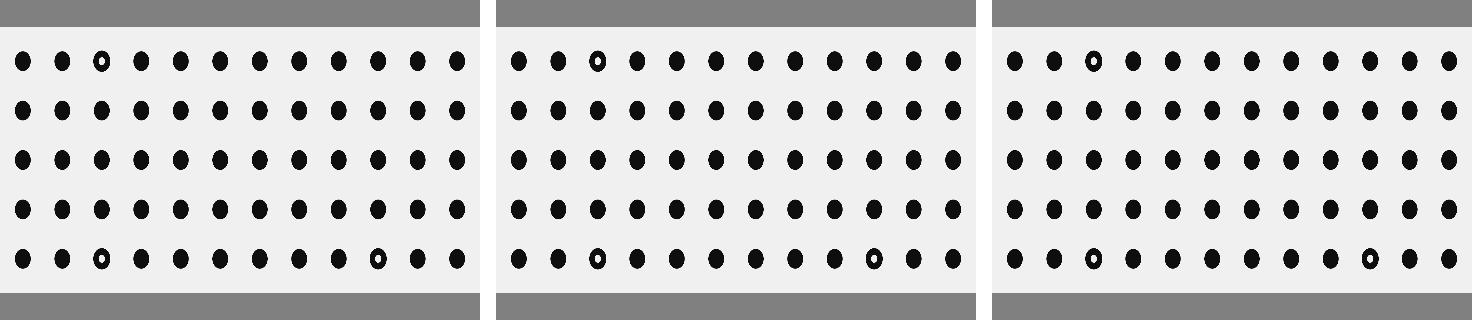
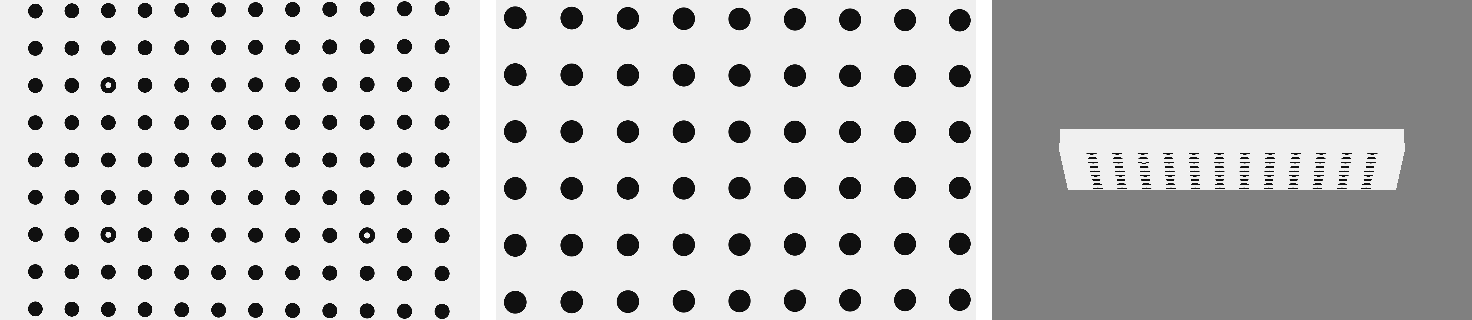
Fixing render uvs examples

diff --git a/src/pyvale/render/cameratools.py b/src/pyvale/render/cameratools.py
@@ -143,25 +143,50 @@ def cam_pos_fill_frame(
         Camera world coordinates [x, y, z] to frame the points.
     """
     pts = np.asarray(points, dtype=np.float64)
-    if pts.size == 0:
+    if pts.ndim != 2 or pts.shape[1] != 3:
+        raise ValueError("points must have shape (N, 3).")
+    if pts.shape[0] == 0:
         raise ValueError("Cannot frame an empty set of points.")
 
-    if isinstance(rot_world, Rotation):
-        rot_euler = tuple(float(value) for value in rot_world.as_euler("xyz"))
-    elif isinstance(rot_world, np.ndarray):
-        rot_euler = tuple(float(value) for value in rot_world)
-    else:
-        rot_euler = tuple(float(value) for value in rot_world)
+    if fill <= 0.0:
+        raise ValueError("fill must be positive.")
 
-    pos = riley.pos_fill_frame_from_rot(
-        pts,
-        tuple(int(value) for value in pixels_num),
-        tuple(float(value) for value in pixels_size),
-        float(focal_length),
-        rot_euler,
-        float(fill),
+    pixel_counts = np.asarray(pixels_num, dtype=np.float64)
+    pixel_sizes = np.asarray(pixels_size, dtype=np.float64)
+    if (
+        pixel_counts.shape != (2,)
+        or pixel_sizes.shape != (2,)
+        or np.any(pixel_counts <= 0.0)
+        or np.any(pixel_sizes <= 0.0)
+        or focal_length <= 0.0
+    ):
+        raise ValueError("Camera dimensions and focal length must be positive.")
+
+    if isinstance(rot_world, Rotation):
+        rotation = rot_world
+    else:
+        rotation = Rotation.from_euler(
+            "xyz",
+            np.asarray(rot_world, dtype=np.float64),
+        )
+
+    target = 0.5 * (np.min(pts, axis=0) + np.max(pts, axis=0))
+    camera_points = rotation.inv().apply(pts - target)
+    sensor_half_size = 0.5 * pixel_counts * pixel_sizes * fill
+
+    distance_x = (
+        camera_points[:, 2]
+        + focal_length * np.abs(camera_points[:, 0]) / sensor_half_size[0]
     )
-    return np.asarray(pos, dtype=np.float64)
+    distance_y = (
+        camera_points[:, 2]
+        + focal_length * np.abs(camera_points[:, 1]) / sensor_half_size[1]
+    )
+    distance = float(max(np.max(distance_x), np.max(distance_y)))
+    clearance = np.finfo(np.float64).eps * max(1.0, abs(distance))
+    distance = max(distance, float(np.max(camera_points[:, 2]))) + clearance
+
+    return target + rotation.apply(np.array((0.0, 0.0, distance)))
 
 
 def cam_frame_points(

diff --git a/tests/render/test_cameratools.py b/tests/render/test_cameratools.py
@@ -112,6 +112,58 @@ def test_cam_frame_mesh_and_scene() -> None:
     np.testing.assert_allclose(framed_scene.pos_world, framed_mesh.pos_world)
 
 
+def test_cam_frame_mesh_respects_fill_for_oblique_camera() -> None:
+    """Framing keeps every projected node within the requested image fill."""
+    coords = np.array(
+        (
+            (-2.0, -1.0, -0.2),
+            (2.0, -1.0, -0.2),
+            (2.0, 1.0, 0.2),
+            (-2.0, 1.0, 0.2),
+        )
+    )
+    mesh = render.Mesh3D(
+        element_type=render.EElementType.QUAD4,
+        coords=coords,
+        connectivity=np.array(((0, 1, 2, 3),), dtype=np.uintp),
+        shader=None,
+    )
+    camera = _make_test_camera(pixels_num=(640, 480))
+    camera.rot_world = Rotation.from_euler(
+        "xyz",
+        (12.0, -20.0, 4.0),
+        degrees=True,
+    )
+
+    framed = render.cam_frame_mesh(camera, mesh, fill=0.8)
+    pixels = render.cam_project_points(framed, coords)
+    image_center = 0.5 * framed.pixels_num
+    image_half_size = 0.5 * framed.pixels_num
+    occupancy = np.abs(pixels - image_center) / image_half_size
+
+    assert np.max(occupancy) <= 0.8 + 1.0e-12
+    assert np.isclose(np.max(occupancy), 0.8)
+
+
+def test_cam_frame_mesh_fill_fraction_controls_camera_distance() -> None:
+    """A smaller fill fraction moves the camera away from the target."""
+    coords = np.array(
+        ((-1.0, -1.0, 0.0), (1.0, -1.0, 0.0), (0.0, 1.0, 0.0))
+    )
+    mesh = render.Mesh3D(
+        element_type=render.EElementType.TRI3,
+        coords=coords,
+        connectivity=np.array(((0, 1, 2),), dtype=np.uintp),
+        shader=None,
+    )
+    camera = _make_test_camera()
+
+    framed_full = render.cam_frame_mesh(camera, mesh, fill=1.0)
+    framed_border = render.cam_frame_mesh(camera, mesh, fill=0.9)
+
+    assert framed_border.pos_world[2] > framed_full.pos_world[2]
+
+
 def test_stereo_build_symmetric_and_faceon() -> None:
     """Verify stereo baseline and symmetric / face-on angles."""
     cam = _make_test_camera(pos=(0.0, 0.0, 10.0))

diff --git a/tests/examples/test_renderuvs_examples.py b/tests/examples/test_renderuvs_examples.py
@@ -11,7 +11,9 @@ from __future__ import annotations
 from collections.abc import Callable
 from pathlib import Path
 
+import numpy as np
 import pytest
+from PIL import Image
 
 
 _RENDER_UV_EXAMPLES = (
@@ -50,5 +52,26 @@ def test_renderuv_example(
     example: str,
     output: str,
 ) -> None:
-    """Each Render UV example runs and writes its representative result."""
-    run_example(example, (output,), timeout=300.0)
+    """Each representative render is visible, centred, and uncropped."""
+    work_dir = run_example(example, (output,), timeout=300.0)
+    with Image.open(work_dir / output) as output_image:
+        image = np.asarray(output_image)
+
+    background = image[0, 0]
+    foreground = np.any(image != background, axis=2)
+    rows, columns = np.nonzero(foreground)
+
+    assert rows.size > 0
+    assert columns.min() > 0
+    assert rows.min() > 0
+    assert columns.max() < image.shape[1] - 1
+    assert rows.max() < image.shape[0] - 1
+
+    object_center = np.array(
+        (
+            0.5 * (columns.min() + columns.max()),
+            0.5 * (rows.min() + rows.max()),
+        )
+    )
+    image_center = 0.5 * np.array((image.shape[1] - 1, image.shape[0] - 1))
+    assert np.all(np.abs(object_center - image_center) < 0.1 * image_center)

diff --git a/src/pyvale/render/riley.py b/src/pyvale/render/riley.py
@@ -280,17 +280,18 @@ def to_riley_camera(camera: Camera | riley.Camera) -> riley.Camera:
 
     Native :class:`riley.Camera` instances are returned unchanged so scenes
     may mix cameras built through the render API with cameras loaded
-    directly from Riley.
+    directly from Riley. SciPy reports Euler angles in X-Y-Z order, whereas
+    Riley stores its camera angles in Z-Y-X order, so this adapter reverses
+    their storage order at the API boundary.
     """
     if isinstance(camera, riley.Camera):
         return camera
+    rotation_xyz = camera.rot_world.as_euler("xyz")
     return riley.Camera(
         pixels_num=tuple(int(value) for value in camera.pixels_num),
         pixels_size=tuple(float(value) for value in camera.pixels_size),
         pos_world=tuple(float(value) for value in camera.pos_world),
-        rot_world=tuple(
-            float(value) for value in camera.rot_world.as_euler("xyz")
-        ),
+        rot_world=tuple(float(value) for value in rotation_xyz[::-1]),
         roi_cent_world=tuple(float(value) for value in camera.roi_cent_world),
         focal_length=camera.focal_length,
         sub_sample=camera.subsample,

diff --git a/src/pyvale/examples/renderuvs/tools.py b/src/pyvale/examples/renderuvs/tools.py
@@ -22,24 +22,20 @@ def render_uv_example(
     """Render one textured UV example with a camera framed around its mesh.
 
     The camera follows the supplied view rotation, looks at the mesh centre,
-    and is positioned with :func:`render.cam_frame_mesh` to fill 95 percent
+    and is positioned with :func:`render.cam_frame_mesh` to fill 90 percent
     of the frame.
     """
-    mesh_center = render.mesh_center(mesh)
     camera = render.Camera(
         pixels_num=np.array((480, 320)),
         pixels_size=np.array((8.0e-6, 8.0e-6)),
         pos_world=np.zeros(3),
         rot_world=camera_rotation,
-        roi_cent_world=mesh_center,
+        roi_cent_world=render.mesh_center(mesh),
         focal_length=35.0e-3,
+        subsample=4,
     )
-    camera = render.cam_frame_mesh(camera, mesh, fill=0.95)
-    camera = render.cam_look_at(
-        camera,
-        mesh_center,
-        up=camera_rotation.apply(np.array((0.0, 1.0, 0.0))),
-    )
+
+    camera = render.cam_frame_mesh(camera, mesh, fill=0.90)
 
     config = riley.create_raster_config(
         num_frames=1,

diff --git a/tests/render/test_riley_integration.py b/tests/render/test_riley_integration.py
@@ -17,6 +17,29 @@ import riley
 from pyvale.verif.renderverif import assert_render_allclose
 
 
+def test_common_camera_reorders_scipy_angles_for_riley() -> None:
+    """Riley receives its native Z-Y-X angle storage order."""
+    camera = render.Camera(
+        pixels_num=np.array((32, 32)),
+        pixels_size=np.array((0.02, 0.02)),
+        pos_world=np.array((0.0, 0.0, 2.0)),
+        rot_world=Rotation.from_euler(
+            "xyz",
+            (10.0, 20.0, 30.0),
+            degrees=True,
+        ),
+        roi_cent_world=np.zeros(3),
+        focal_length=1.0,
+    )
+
+    native = render.to_riley_camera(camera)
+
+    np.testing.assert_allclose(
+        native.rot_world,
+        np.radians((30.0, 20.0, 10.0)),
+    )
+
+
 def test_riley_returns_canonical_image_layout() -> None:
     """Riley's field-major buffer is normalised by the pyvale adapter."""
     mesh = riley.Mesh(

diff --git a/src/pyvale/examples/renderuvs/ex1a_uv_planar_axes.py b/src/pyvale/examples/renderuvs/ex1a_uv_planar_axes.py
@@ -26,6 +26,7 @@ from pyvale.examples.renderuvs.tools import render_uv_example
 # ------------------------------------------------------------
 # The calibration plate is a TRI3 surface mesh with front, back, and side
 # faces. Its exposed edges make planar-projection orientation easy to inspect.
+
 data_dir = dataset.riley_stereocal_case_path()
 simulation = io.SimLoaderByField(
     load_dir=data_dir,
@@ -35,8 +36,10 @@ simulation = io.SimLoaderByField(
     connect_files="connect.csv",
     load_opts=io.SimLoadOpts(coord_header=None),
 ).load_all_sim_data()
+
 base_mesh = render.mesh3d_from_simdata(simulation, shader=None)
 texture = render.image_load(dataset.riley_cal_target_texture_path())
+
 mesh_center = render.mesh_center(base_mesh)
 
 # %%

diff --git a/src/pyvale/examples/render3d/ex1c_riley_rabbits.py b/src/pyvale/examples/render3d/ex1c_riley_rabbits.py
@@ -135,7 +135,18 @@ camera = render.Camera(
     focal_length=focal_length,
     subsample=2,
 )
-camera = render.cam_frame_scene(camera, meshes, fill=1.01)
+native_meshes = [render.to_riley_mesh(mesh) for mesh in meshes]
+camera.pos_world = np.asarray(
+    riley.pos_fill_frame_from_rot_over_meshes(
+        native_meshes,
+        tuple(camera.pixels_num),
+        tuple(camera.pixels_size),
+        camera.focal_length,
+        (0.0, 0.0, 0.0),
+        1.01,
+    )
+)
+camera.roi_cent_world = np.asarray(riley.roi_cent_over_meshes(native_meshes))
 
 # %%
 # 3. Configure and build the renderer

diff --git a/src/pyvale/examples/render3d/ex1e_riley_dic_from_exodus.py b/src/pyvale/examples/render3d/ex1e_riley_dic_from_exodus.py
@@ -69,7 +69,7 @@ roi_centre = tuple(render.mesh_center(surface_mesh))
 
 rot_world_0 = (0.0, 0.0, 0.0)
 pos_world_0 = tuple(
-    render.cam_pos_fill_frame(
+    riley.pos_fill_frame_from_rot(
         surface_mesh.coords,
         pixels_num,
         pixels_size,
@@ -81,7 +81,7 @@ pos_world_0 = tuple(
 
 rot_world_1 = (0.0, float(np.deg2rad(20.0)), 0.0)
 pos_world_1 = tuple(
-    render.cam_pos_fill_frame(
+    riley.pos_fill_frame_from_rot(
         surface_mesh.coords,
         pixels_num,
         pixels_size,

diff --git a/src/pyvale/examples/render3d/ex1d_riley_dicuq.py b/src/pyvale/examples/render3d/ex1d_riley_dicuq.py
@@ -70,7 +70,7 @@ roi_centre = tuple(render.mesh_center(mesh))
 
 rot_world_0 = (0.0, 0.0, 0.0)
 pos_world_0 = tuple(
-    render.cam_pos_fill_frame(
+    riley.pos_fill_frame_from_rot(
         mesh.coords,
         pixels_num,
         pixels_size,
@@ -82,7 +82,7 @@ pos_world_0 = tuple(
 
 rot_world_1 = (0.0, float(np.deg2rad(20.0)), 0.0)
 pos_world_1 = tuple(
-    render.cam_pos_fill_frame(
+    riley.pos_fill_frame_from_rot(
         mesh.coords,
         pixels_num,
         pixels_size,

diff --git a/src/pyvale/examples/renderuvs/ex1c_uv_pixel_region.py b/src/pyvale/examples/renderuvs/ex1c_uv_pixel_region.py
@@ -68,7 +68,7 @@ textured_mesh = render.Mesh3D(
 # 3. Render the mapped pixel region
 # ------------------------------------------------------------
 output_dir = Path.cwd() / "pyvale-output" / "renderuvs_ex1c_uv_pixel_region"
-camera_rotation = Rotation.from_euler("xyz", (14.0, -24.0, 0.0), degrees=True)
+camera_rotation = Rotation.identity()
 render_uv_example(textured_mesh, output_dir / "region", camera_rotation)
 
 print(f"Rendered the pixel-region UV mapping to {output_dir}")

diff --git a/src/pyvale/examples/renderuvs/ex1d_uv_arbitrary_plane.py b/src/pyvale/examples/renderuvs/ex1d_uv_arbitrary_plane.py
@@ -70,7 +70,7 @@ textured_mesh = render.Mesh3D(
 # 3. Render the arbitrary-plane mapping
 # ------------------------------------------------------------
 output_dir = Path.cwd() / "pyvale-output" / "renderuvs_ex1d_uv_arbitrary_plane"
-render_uv_example(textured_mesh, output_dir / "tilted", plate_rotation)
+render_uv_example(textured_mesh, output_dir / "tilted", Rotation.identity())
 
 print(f"Rendered the arbitrary-plane UV mapping to {output_dir}")
 
